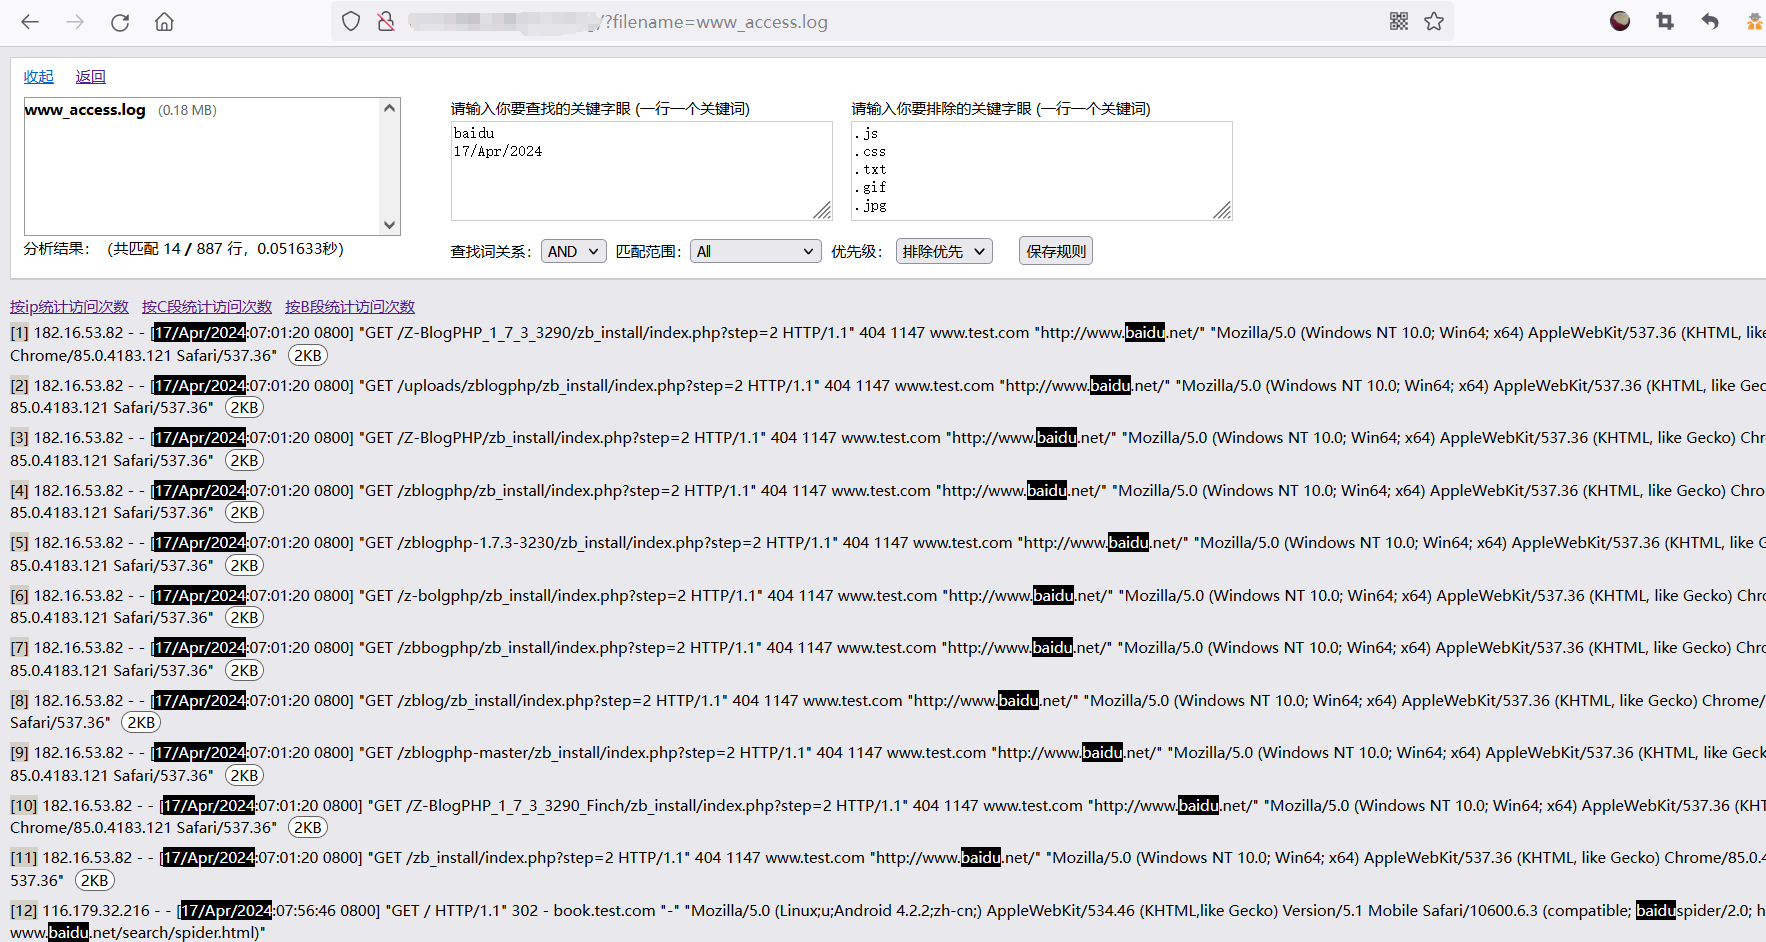
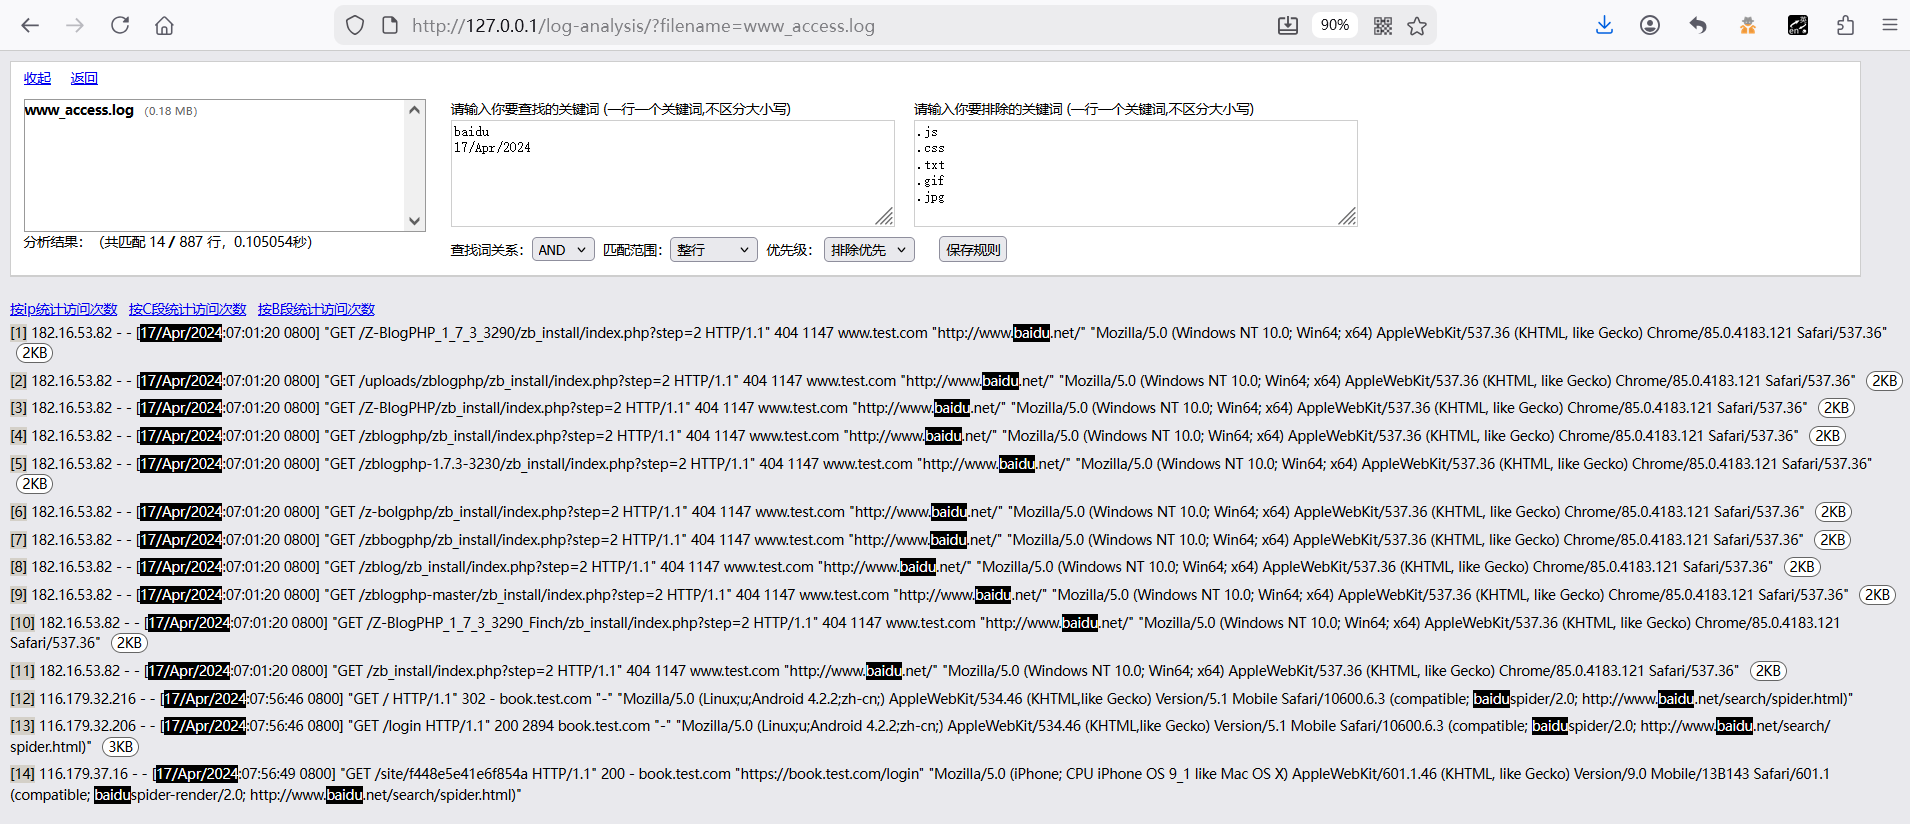
.

diff --git a/README.md b/README.md
@@ -9,12 +9,15 @@ PHP语言编写的日志查找工具，需要安装php运行环境
 
 
 #### 安装使用教程
-1. 将文本日志文件复制到 ./log-analysis/log/ 目录下，然后通过浏览器访问项目: http://127.0.0.1/log-analysis
+1. 将文本日志文件复制到 ./log-analysis/log/ 目录下（记得要设置该目录写入权限，否则无法保存匹配规则导致报错），然后通过浏览器访问项目: http://127.0.0.1/log-analysis
 2. 在浏览器输出界面中分别设置好你要查找和排除的关键词集合，点击【保存规则】
 3. 在浏览器输出界面左上角点击你要查询日志文件名即可开始查找，等几秒就能看到匹配结果了
+4. 运行效果图见图片地址: http://www.jiayyy.com/log-analysis-view.png
 
 
 #### 查找规则设置
 设置【查找词关系】：为and则必须同时匹配所有关键词才能输出该行，为or则匹配至少一个关键词即可输出该行；<br />
 设置【匹配范围】：选择“整行”则会匹配整行内容，选择“受访URL”则将行内容以"HTTP/1."截断匹配左侧字符串；<br />
 设置【优先级】：当行内容同时存在查找词和排除词时，选择“查找优先”则会输出该行；选择“排除优先”则会忽略该行；<br />
+规则关键词留空，表示查看全部日志内容。<br />
+当展现的日志超过1万行，则只输出前1万行进行展现，你可以在index.php中修改此限制值，此值不宜太大，否则容易引起浏览器死机。
